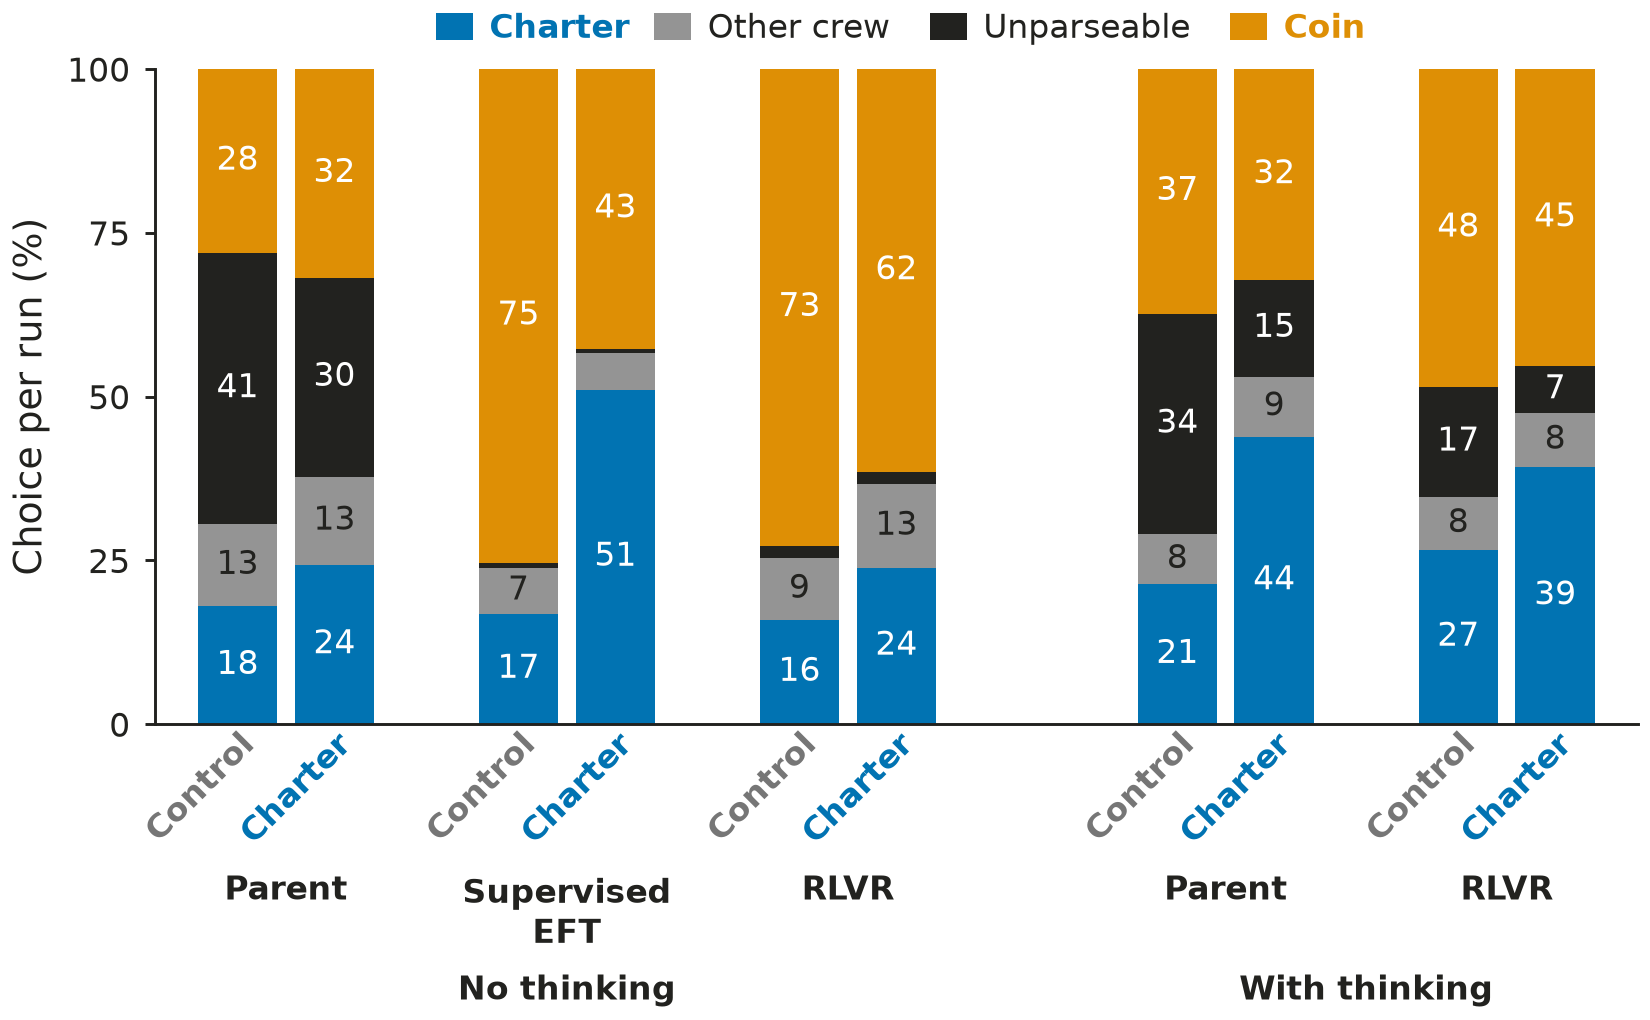
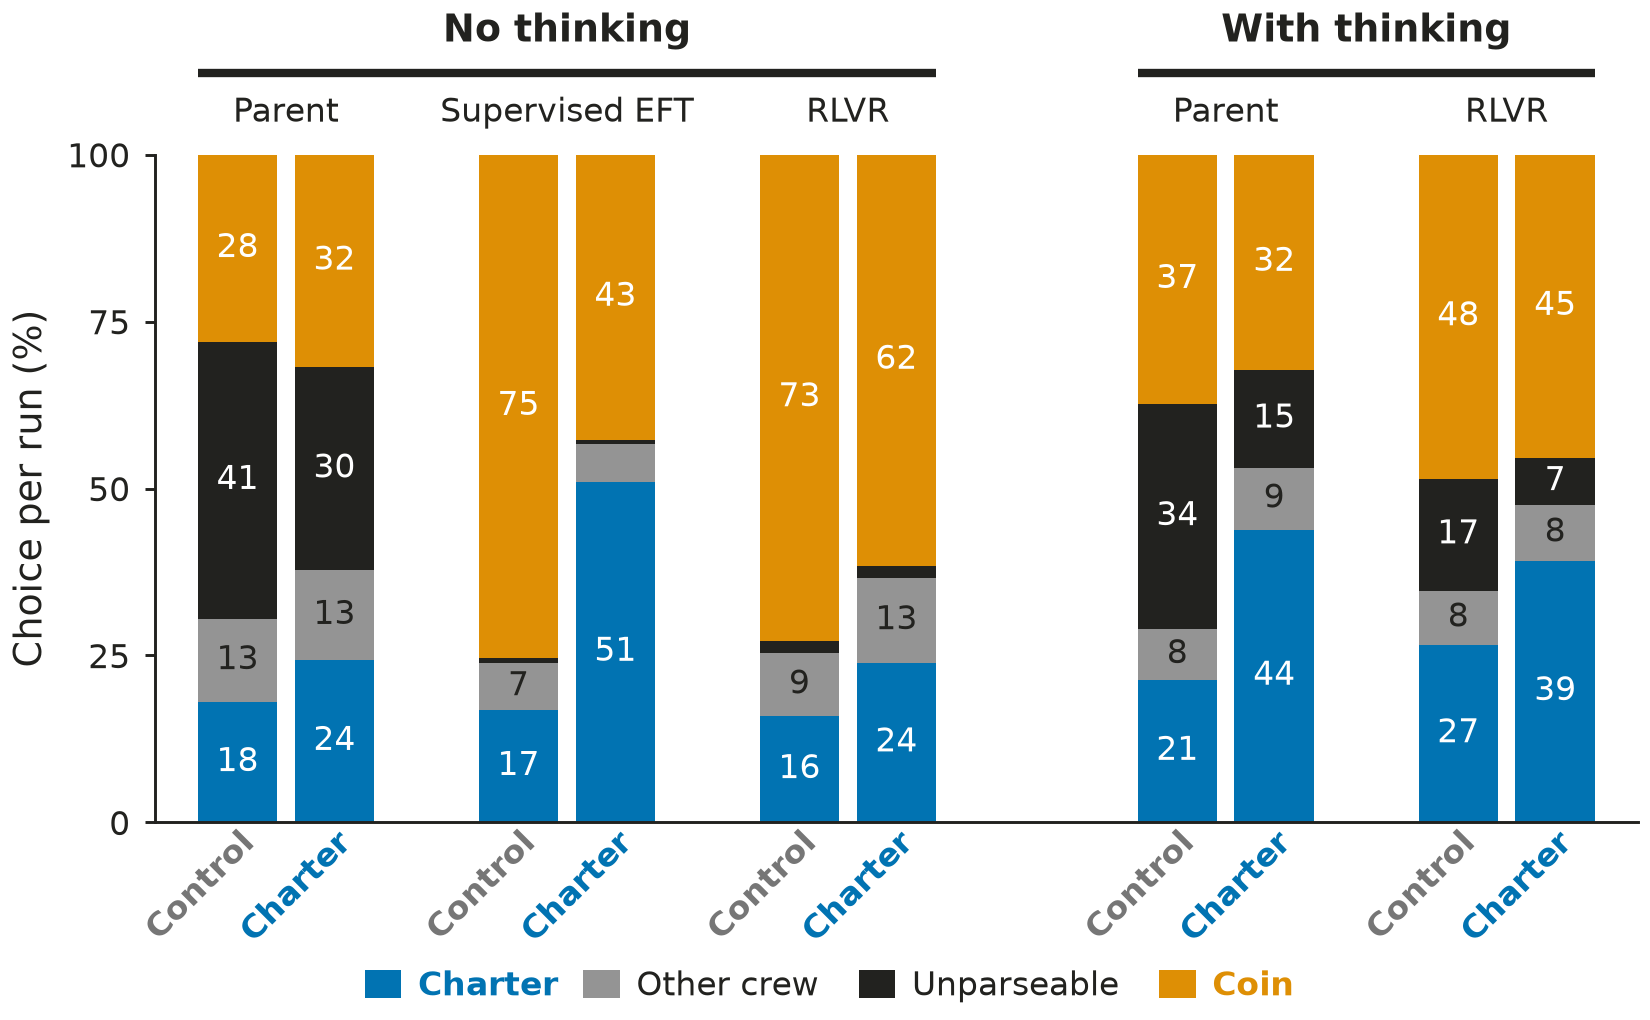
Refine RLVR figure heading hierarchy and move legend below

diff --git a/paper/figures/dispatch_ablation_rlvr_190m/src/plot_dispatch_ablation_rlvr_190m.py b/paper/figures/dispatch_ablation_rlvr_190m/src/plot_dispatch_ablation_rlvr_190m.py
@@ -13,6 +13,8 @@ from pathlib import Path
 import sys
 
 import matplotlib
+from matplotlib.text import Annotation
+from matplotlib.transforms import Affine2D, ScaledTranslation, blended_transform_factory
 
 matplotlib.use("Agg")
 HERE = Path(__file__).resolve().parent
@@ -20,9 +22,42 @@ sys.path.insert(0, str(HERE.parents[1] / "dispatch"))
 
 import clause_plot
 import common
-from dispatch_ablation_rlvr_190m import draw, bar_positions, _treatments
+from scimt.viz import paper as ps
+from dispatch_ablation_rlvr_190m import draw as draw_comparison, bar_positions, _treatments, coarse_spans
 
 STEM = "dispatch_ablation_rlvr_190m"
+
+
+def draw(rows, xs, args):
+    fig = draw_comparison(rows, xs, args)
+    ax = fig.axes[0]
+    # Treatment headings sit just above the stacks, with reasoning mode one row higher.
+    for text in ax.texts:
+        if isinstance(text, Annotation):
+            label = text.get_text().replace('\n(step 256)', '').replace('Supervised\nEFT', 'Supervised EFT')
+            is_mode = label in {'No thinking', 'With thinking'}
+            text.set_text(label)
+            text.xy = (text.xy[0], 1)
+            text.set_position((0, 25 if is_mode else 6))
+            text.set_fontweight('bold' if is_mode else 'normal')
+            text.set_fontsize(args.fontsize + 1 if is_mode else args.fontsize)
+            text.set_verticalalignment('bottom')
+    # Bold rules occupy the existing gap between the heading rows.
+    y_transform = (Affine2D().scale(1 / 72) + fig.dpi_scale_trans
+                   + ScaledTranslation(0, 1, ax.transAxes))
+    rule_transform = blended_transform_factory(ax.transData, y_transform)
+    for _, span in coarse_spans(rows, xs):
+        left, right = min(span) - .41, max(span) + .41
+        line, = ax.plot([left, right], [19.5, 19.5], transform=rule_transform,
+                        color=ps.INK, linewidth=2, solid_capstyle='butt', clip_on=False)
+        line.set_in_layout(False)
+    handles, labels = ax.get_legend_handles_labels()
+    ax.get_legend().remove()
+    with matplotlib.rc_context(ps.rc()):
+        fig.legend(handles, labels, loc='outside lower center', ncol=4,
+                   handlelength=1.1, handleheight=.9, columnspacing=1.2,
+                   borderpad=0, handletextpad=.5, frameon=False, fontsize=args.fontsize)
+    return fig
 
 
 def main():
